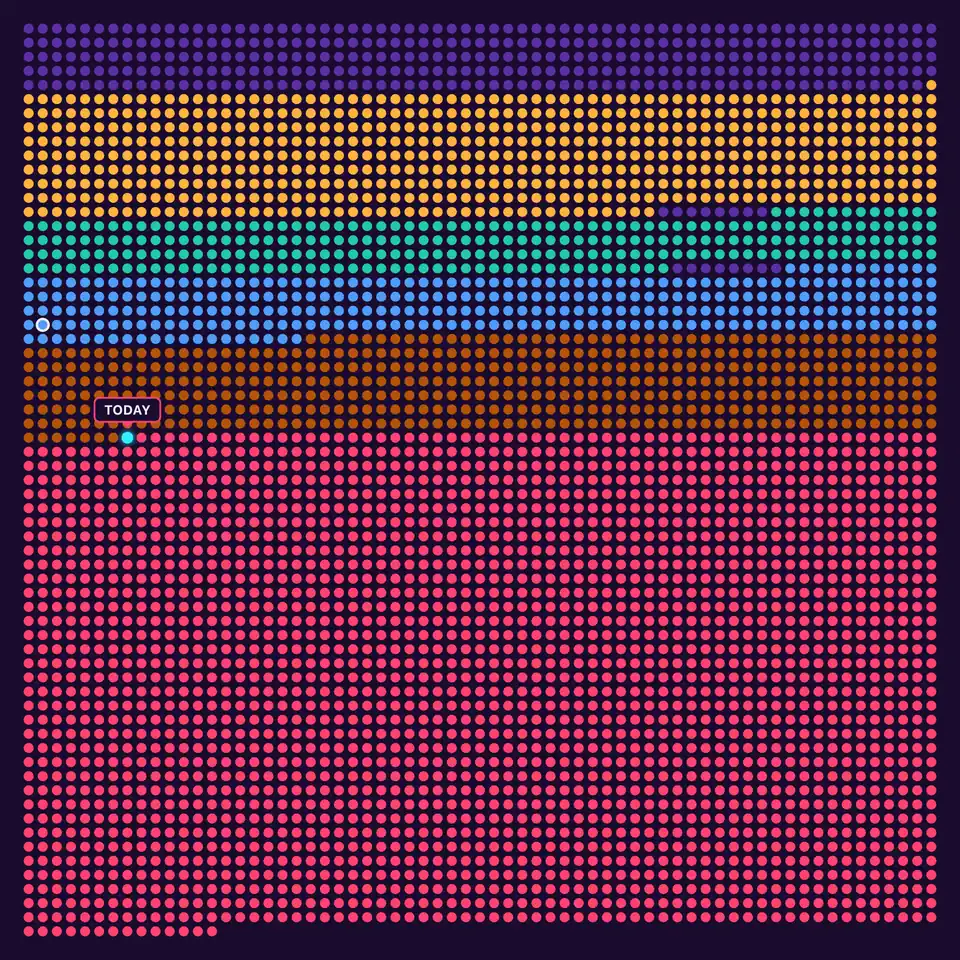
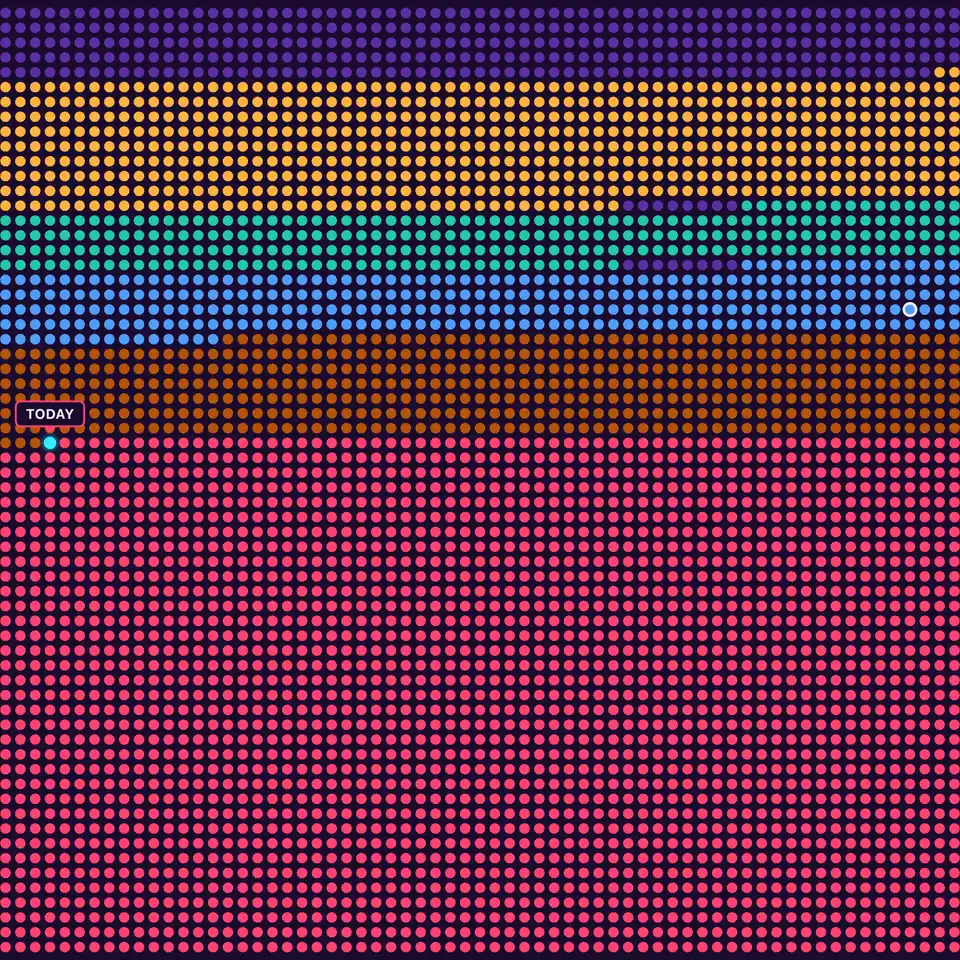
Line up the Life in Weeks dots with the card text
The tile is re-shot from the current app and cropped tight to the dot grid
left and right. A new "inset" thumbnail style frames it with the card's text
padding (now one --card-pad variable) in the chart's own background colour,
so the dots' edges line up with the text at every card width rather than
only at one, as padding baked into the image would.

diff --git a/index.html b/index.html
@@ -141,6 +141,7 @@
     /* Cards in a row stretch to equal height; the card and its body are
        flex columns so the tag row sits at the bottom of each. */
     .card {
+      --card-pad: 18px; /* side padding of the text; an inset thumbnail matches it */
       display: flex;
       flex-direction: column;
       background: var(--card);
@@ -170,11 +171,17 @@
       transition: filter .15s;
     }
     .card .thumb-link:hover .thumb { filter: brightness(1.15); }
+    /* An inset thumbnail sits in a frame of its own background colour, as wide
+       as the text padding, so the picture's edges line up with the text. */
+    .card .thumb.inset {
+      padding: var(--card-pad);
+      background: var(--inset-bg);
+    }
     .card .body {
       flex: 1;
       display: flex;
       flex-direction: column;
-      padding: 14px 18px 16px;
+      padding: 14px var(--card-pad) 16px;
     }
     .card h3 {
       margin: 0 0 4px;
@@ -303,6 +310,10 @@
         selectable; the thumbnail, the subtitle and the "Source" link are optional.
         The thumbnail link duplicates the title link, so it is hidden from the
         keyboard and screen readers (tabindex="-1" aria-hidden="true").
+        For a picture whose edges should line up with the text (a chart, not a
+        full-bleed photo), crop it tight and add class="thumb inset" with
+        style="--inset-bg: <its background colour>"; its `sizes` then shrinks
+        by the 36px of padding.
       -->
       <ul class="cards">
         <li class="card">
@@ -327,10 +338,10 @@
         </li>
         <li class="card">
           <a class="thumb-link" href="https://bulatgab.github.io/lifeinweeks/" tabindex="-1" aria-hidden="true">
-            <img class="thumb"
+            <img class="thumb inset" style="--inset-bg: #1a0b2e"
                  src="img/lifeinweeks-480.webp"
                  srcset="img/lifeinweeks-480.webp 480w, img/lifeinweeks-960.webp 960w"
-                 sizes="(min-width: 600px) 338px, calc(100vw - 34px)"
+                 sizes="(min-width: 600px) 302px, calc(100vw - 70px)"
                  width="960" height="960" loading="lazy"
                  alt="A grid of coloured dots, one per week of a life: past weeks in period colours, future weeks in pink, a marker on today">
           </a>

diff --git a/README.md b/README.md
@@ -15,11 +15,16 @@ Personal link page. One static `index.html`, no build step.
   sed 's/rx="14"/rx="0"/' favicon.svg | magick -background '#3b5bdb' -density 600 svg:- -resize 180x180 -alpha off -depth 8 -strip apple-touch-icon.png
   ```
 - **Project thumbnails** live in `img/` as square WebP at 480 and 960 px (`srcset`).
-  The Life in Weeks tile is a headless-Chrome shot of the app at an 800×880 window
-  (that height makes the grid come out square), with `#fab, #share-fab, #stats, #legend`
-  hidden via an injected `<style>`, cropped to 1600×1600 from 24 px down, then
+  The Life in Weeks tile is a headless-Chrome shot of the app at an 800×880 window,
+  2× device scale (that height makes the grid come out about square), with
+  `#fab, #share-fab, #stats, #legend` hidden via an injected `<style>`, cropped tight
+  to the dots left and right and padded to a square with the app's background
+  (`-crop 1538x1538+31+55`: outer dot columns at x = 31 and 1569), then
   `magick tile.png -resize 960x960 -define webp:method=6 -quality 42 img/lifeinweeks-960.webp`
-  (480 px at quality 50). The URL with the sample life is in the lifeinweeks README.
+  (480 px at quality 50). The card shows it as `class="thumb inset"`: CSS frames it
+  with the card's text padding in its background colour (`--inset-bg: #1a0b2e`), so
+  the dots line up with the text at every width. The URL with the sample life is in
+  the lifeinweeks README (the chart goes after `#` there).
   The Art Decoded tile is the live app (https://art-decoded.pages.dev/) at an 800×880
   window, 2× device scale, after clicking the blue-cloak couple in *Netherlandish
   Proverbs* (CSS point 330, 690). Flutter paints the painting only after its tiles
